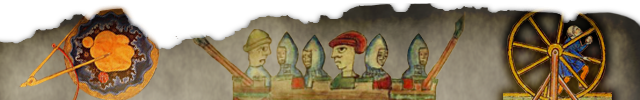
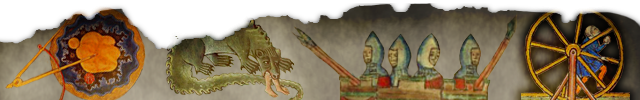
contact view displays but is fucked up

diff --git a/Classes/Views/Messaging/ContactsTopLauncherView.m b/Classes/Views/Messaging/ContactsTopLauncherView.m
@@ -1,38 +1,37 @@
 //
-//  InventoryTopLauncherView.m
+//  ContactsTopLauncherView.m
 //  streethak
 //
-//  Created by Troy Stribling on 10/3/10.
+//  Created by Troy Stribling on 10/6/10.
 //  Copyright 2010 planBresearch. All rights reserved.
 //
 
 //-----------------------------------------------------------------------------------------------------------------------------------
-#import "InventoryTopLauncherView.h"
+#import "ContactsTopLauncherView.h"
 #import "TouchAreaView.h"
 
-
 /////////////////////////////////////////////////////////////////////////////////////////////////////////////////////////////////////
-@interface InventoryTopLauncherView (PrivateAPI)
+@interface ContactsTopLauncherView (PrivateAPI)
 
 @end
 
 /////////////////////////////////////////////////////////////////////////////////////////////////////////////////////////////////////
-@implementation InventoryTopLauncherView
+@implementation ContactsTopLauncherView
 
 //-----------------------------------------------------------------------------------------------------------------------------------
-@synthesize storeLauncher;
 @synthesize backLauncher;
 @synthesize containerView;
 
-//===================================================================================================================================
-#pragma mark InventoryTopLauncherView PrivateAPI
 
 //===================================================================================================================================
-#pragma mark InventoryTopLauncherView
+#pragma mark ContactsTopLauncherView PrivateAPI
+
+//===================================================================================================================================
+#pragma mark ContactsTopLauncherView
 
 //-----------------------------------------------------------------------------------------------------------------------------------
 + (id)inView:(UIView*)_view {
-    return [[[InventoryTopLauncherView alloc] initInView:_view] autorelease];
+    return [[[ContactsTopLauncherView alloc] initInView:_view] autorelease];
 }
 
 //-----------------------------------------------------------------------------------------------------------------------------------
@@ -42,14 +41,11 @@
     CGRect viewFrame = CGRectMake(0.0, 0.0, viewWidth, viewHeight);
     if ((self = [self initWithFrame:viewFrame])) {
         self.containerView = _view;
-        self.image = [UIImage imageNamed:@"inventory-top-launcher.png"];
+        self.image = [UIImage imageNamed:@"contacts-top-launcher.png"];
         self.userInteractionEnabled = YES;
         CGRect backFrame = CGRectMake(0.0234*viewWidth, 0.0, 0.2109*viewWidth, viewHeight);
         self.backLauncher = [TouchAreaView createWithFrame:backFrame name:@"back" andDelegate:self];
         [self addSubview:self.backLauncher];
-        CGRect storeFrame = CGRectMake(0.7812*viewWidth, 0.0, 0.2031*viewWidth, viewHeight);
-        self.storeLauncher = [TouchAreaView createWithFrame:storeFrame name:@"store" andDelegate:self];
-        [self addSubview:self.storeLauncher];
         [_view addSubview:self];
     }
     return self;
@@ -62,7 +58,7 @@
 - (void)viewTouched:(TouchAreaView*)touchedView {
     if ([touchedView.viewName isEqualToString:@"back"]) {
         [self.containerView removeFromSuperview];
-    } else if ([touchedView.viewName isEqualToString:@"store"]) {
+    } else if ([touchedView.viewName isEqualToString:@"add_contact"]) {
     }
 }
 

diff --git a/Classes/Views/Messaging/ContactsViewController.m b/Classes/Views/Messaging/ContactsViewController.m
@@ -1,5 +1,5 @@
 //
-//  ContactViewController.m
+//  ContactsViewController.m
 //  webgnosus
 //
 //  Created by Troy Stribling on 1/19/09.
@@ -7,10 +7,11 @@
 //
 
 //-----------------------------------------------------------------------------------------------------------------------------------
-#import "ContactViewController.h"
+#import "ContactsViewController.h"
 #import "ContactCell.h"
 #import "AddContactViewController.h"
 #import "ContactMessagesViewController.h"
+#import "ContactsTopLauncherView.h"
 #import "ContactModel.h"
 #import "AccountModel.h"
 #import "RosterItemModel.h"
@@ -26,7 +27,7 @@
 #import "XMPPMessageDelegate.h"
 
 /////////////////////////////////////////////////////////////////////////////////////////////////////////////////////////////////////
-@interface ContactViewController (PrivateAPI)
+@interface ContactsViewController (PrivateAPI)
 
 - (void)onXmppClientConnectionError:(XMPPClient*)sender;
 - (void)loadItems;
@@ -42,17 +43,32 @@
 @end
 
 /////////////////////////////////////////////////////////////////////////////////////////////////////////////////////////////////////
-@implementation ContactViewController
+@implementation ContactsViewController
 
 //-----------------------------------------------------------------------------------------------------------------------------------
+@synthesize containerView;
 @synthesize contacts;
 @synthesize account;
 
 //===================================================================================================================================
-#pragma mark ContactViewController
+#pragma mark ContactsViewController
+
+//-----------------------------------------------------------------------------------------------------------------------------------
++ (id)inView:(UIView*)_containerView {
+    return [[ContactsViewController alloc] initWithNibName:@"ContactsViewController" bundle:nil inView:_containerView];
+}
+
+//-----------------------------------------------------------------------------------------------------------------------------------
+- (id)initWithNibName:(NSString *)nibNameOrNil bundle:(NSBundle *)nibBundleOrNil inView:(UIView*)_containerView {
+    if ((self = [super initWithNibName:nibNameOrNil bundle:nibBundleOrNil])) {
+        self.containerView = _containerView;
+        self.view.frame = self.containerView.frame;
+    }
+    return self;
+}
 
 //===================================================================================================================================
-#pragma mark ContactViewController PrivateApi
+#pragma mark ContactsViewController PrivateApi
 
 //-----------------------------------------------------------------------------------------------------------------------------------
 - (void)onXmppClientConnectionError:(XMPPClient*)sender {
@@ -214,8 +230,11 @@
 
 //-----------------------------------------------------------------------------------------------------------------------------------
 - (void)viewDidLoad {
-    [super viewDidLoad];
+    [self.containerView addSubview:self.view];
+    [NavigationLauncherView inView:self.view withImageNamed:@"contacts-navigation-launcher.png" andDelegate:self];
+    [ContactsTopLauncherView inView:self.view];
     [self loadAccount];
+    [super viewDidLoad];
 }
 
 //-----------------------------------------------------------------------------------------------------------------------------------

diff --git a/Classes/Views/NavigationLauncherView.m b/Classes/Views/NavigationLauncherView.m
@@ -20,6 +20,7 @@
 
 //-----------------------------------------------------------------------------------------------------------------------------------
 @synthesize configLauncher;
+@synthesize notificationsLauncher;
 @synthesize contactsLauncher;
 @synthesize mapLauncher;
 @synthesize delegate;
@@ -42,13 +43,16 @@
         self.delegate = _delegate;
         self.image = [UIImage imageNamed:_imageName];
         self.userInteractionEnabled = YES;
-        CGRect configFrame = CGRectMake(0.7859*viewWidth, 0.0, 0.1797*viewWidth, viewHeight);
+        CGRect configFrame = CGRectMake(0.8109*viewWidth, 0.0, 0.1875*viewWidth, viewHeight);
         self.configLauncher = [TouchAreaView createWithFrame:configFrame name:@"config" andDelegate:self];
         [self addSubview:self.configLauncher];
-        CGRect contactsFrame = CGRectMake(0.2875*viewWidth, 0.0, 0.4531*viewWidth, viewHeight);
+        CGRect contactsFrame = CGRectMake(0.4953*viewWidth, 0.0, 0.2891*viewWidth, viewHeight);
         self.contactsLauncher = [TouchAreaView createWithFrame:contactsFrame name:@"contacts" andDelegate:self];
         [self addSubview:self.contactsLauncher];
-        CGRect mapFrame = CGRectMake(0.0312*viewWidth, 0.0, 0.2266*viewWidth, viewHeight);
+        CGRect notificationsFrame = CGRectMake(0.2500*viewWidth, 0.0, 0.2109*viewWidth, viewHeight);
+        self.notificationsLauncher = [TouchAreaView createWithFrame:notificationsFrame name:@"notifications" andDelegate:self];
+        [self addSubview:self.contactsLauncher];
+        CGRect mapFrame = CGRectMake(0.0156*viewWidth, 0.0, 0.2266*viewWidth, viewHeight);
         self.mapLauncher = [TouchAreaView createWithFrame:mapFrame name:@"location" andDelegate:self];
         [self addSubview:self.mapLauncher];
         [_view addSubview:self];
@@ -67,6 +71,10 @@
     if ([touchedView.viewName isEqualToString:@"config"]) {
         if ([self.delegate respondsToSelector:@selector(touchedConfig)]) {
             [self.delegate touchedConfig];
+        }         
+    } else if ([touchedView.viewName isEqualToString:@"notifications"]) {
+        if ([self.delegate respondsToSelector:@selector(touchedNotifications)]) {
+            [self.delegate touchedNotifications];
         }         
     } else if ([touchedView.viewName isEqualToString:@"contacts"]) {
         if ([self.delegate respondsToSelector:@selector(touchedContacts)]) {

diff --git a/Classes/Views/Messaging/ContactsViewController.h b/Classes/Views/Messaging/ContactsViewController.h
@@ -1,5 +1,5 @@
 //
-//  ContactViewController.h
+//  ContactsViewController.h
 //  webgnosus
 //
 //  Created by Troy Stribling on 1/19/09.
@@ -8,20 +8,25 @@
 
 //-----------------------------------------------------------------------------------------------------------------------------------
 #import <UIKit/UIKit.h>
+#import "NavigationLauncherView.h"
 
 //-----------------------------------------------------------------------------------------------------------------------------------
 @class AccountModel;
 
 /////////////////////////////////////////////////////////////////////////////////////////////////////////////////////////////////////
-@interface ContactViewController : UITableViewController <UITableViewDataSource> {
+@interface ContactsViewController : UITableViewController <UITableViewDataSource, NavigationLauncherViewDelegate> {
+    UIView* containerView;
 	NSMutableArray* contacts;
     AccountModel* account;
 }
 
 //-----------------------------------------------------------------------------------------------------------------------------------
+@property (nonatomic, retain) UIView* containerView;
 @property (nonatomic, retain) NSMutableArray* contacts;
 @property (nonatomic, retain) AccountModel* account;
 
 //-----------------------------------------------------------------------------------------------------------------------------------
++ (id)inView:(UIView*)_view;
+- (id)initWithNibName:(NSString *)nibNameOrNil bundle:(NSBundle *)nibBundleOrNil inView:(UIView*)_containerView;
 
 @end

diff --git a/Classes/Views/Messaging/ContactsTopLauncherView.h b/Classes/Views/Messaging/ContactsTopLauncherView.h
@@ -1,0 +1,28 @@
+//
+//  ContactsTopLauncherView.h
+//  streethak
+//
+//  Created by Troy Stribling on 10/6/10.
+//  Copyright 2010 planBresearch. All rights reserved.
+//
+
+#import <UIKit/UIKit.h>
+
+
+//-----------------------------------------------------------------------------------------------------------------------------------
+@class TouchAreaView;
+
+@interface ContactsTopLauncherView : UIImageView {
+    TouchAreaView* backLauncher;
+    UIView* containerView;
+}
+
+//-----------------------------------------------------------------------------------------------------------------------------------
+@property (nonatomic, retain) TouchAreaView* backLauncher;
+@property (nonatomic, retain) UIView* containerView;
+
+//-----------------------------------------------------------------------------------------------------------------------------------
++ (id)inView:(UIView*)_view;
+- (id)initInView:(UIView*)_view;
+
+@end

diff --git a/Classes/Views/NavigationLauncherView.h b/Classes/Views/NavigationLauncherView.h
@@ -21,6 +21,7 @@
 - (void)touchedConfig;
 - (void)touchedContacts;
 - (void)touchedLocation;
+- (void)touchedNotifications;
 
 @end
 
@@ -29,6 +30,7 @@
     TouchAreaView* configLauncher;
     TouchAreaView* contactsLauncher;
     TouchAreaView* mapLauncher;
+    TouchAreaView* notificationsLauncher;
 	id<NavigationLauncherViewDelegate> delegate;
 }
 
@@ -36,6 +38,7 @@
 @property (nonatomic, retain) TouchAreaView* configLauncher;
 @property (nonatomic, retain) TouchAreaView* contactsLauncher;
 @property (nonatomic, retain) TouchAreaView* mapLauncher;
+@property (nonatomic, retain) TouchAreaView* notificationsLauncher;
 @property (assign) id<NavigationLauncherViewDelegate> delegate;
 
 //-----------------------------------------------------------------------------------------------------------------------------------

diff --git a/Classes/Views/MapView/MapViewController.m b/Classes/Views/MapView/MapViewController.m
@@ -10,6 +10,7 @@
 #import "MapViewController.h"
 #import "MapTopLauncherView.h"
 #import "NavigationLauncherView.h"
+#import "ContactsViewController.h"
 #import "RMCloudMadeMapSource.h"
 #import "RMMarker.h"
 #import "RMMarkerManager.h"
@@ -75,7 +76,12 @@
 }
 
 //-----------------------------------------------------------------------------------------------------------------------------------
+- (void)touchedNotifications {
+}            
+    
+//-----------------------------------------------------------------------------------------------------------------------------------
 - (void)touchedContacts {
+    [ContactsViewController inView:self.view];
 }
 
 //-----------------------------------------------------------------------------------------------------------------------------------

diff --git a/Classes/Views/Inventory/InventoryViewController.m b/Classes/Views/Inventory/InventoryViewController.m
@@ -50,6 +50,10 @@
 }
 
 //-----------------------------------------------------------------------------------------------------------------------------------
+- (void)touchedNotifications {
+}            
+
+//-----------------------------------------------------------------------------------------------------------------------------------
 - (void)touchedContacts {
 }
 
